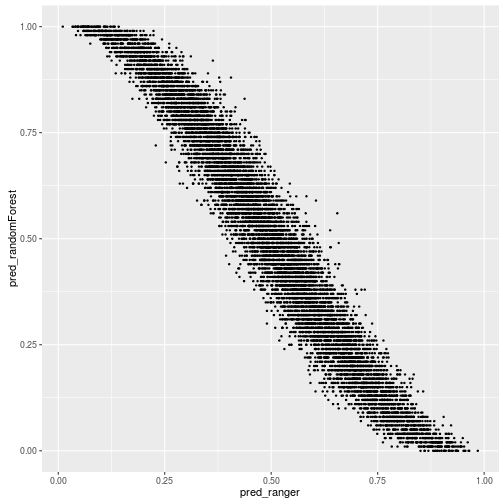
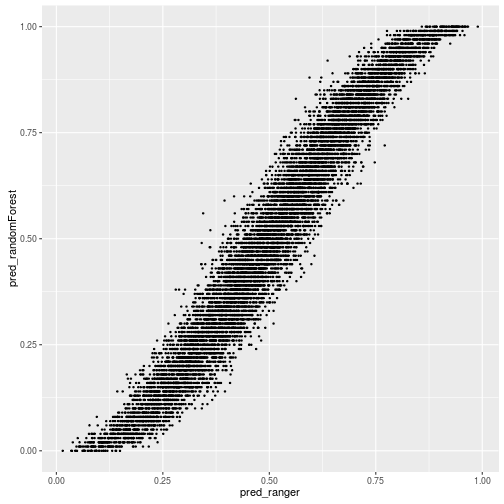
mais um ajustezinho

diff --git a/_posts/2016-07-27-comparando-ranger-e-randomForest.md b/_posts/2016-07-27-comparando-ranger-e-randomForest.md
@@ -78,7 +78,7 @@ O seguinte código foi utilziado para calcular as probabilidades preditas para c
 além da probabilidade real de resposta.
 
 {% highlight r %}
-pred_ranger <- predict(modelo_ranger, teste)$predictions[,1]
+pred_ranger <- predict(modelo_ranger, teste)$predictions[,2]
 pred_randomForest <- predict(modelo_randomForest, teste, type = "prob")[,2]
 prob_real <- apply(teste[,1:10], 1, sum) %>% pnorm(mean = 5)
 {% endhighlight %}
@@ -141,7 +141,7 @@ mean(abs(prob_real - pred_ranger))
 
 
 {% highlight text %}
-## [1] 0.3859596
+## [1] 0.09555774
 {% endhighlight %}
 
 
